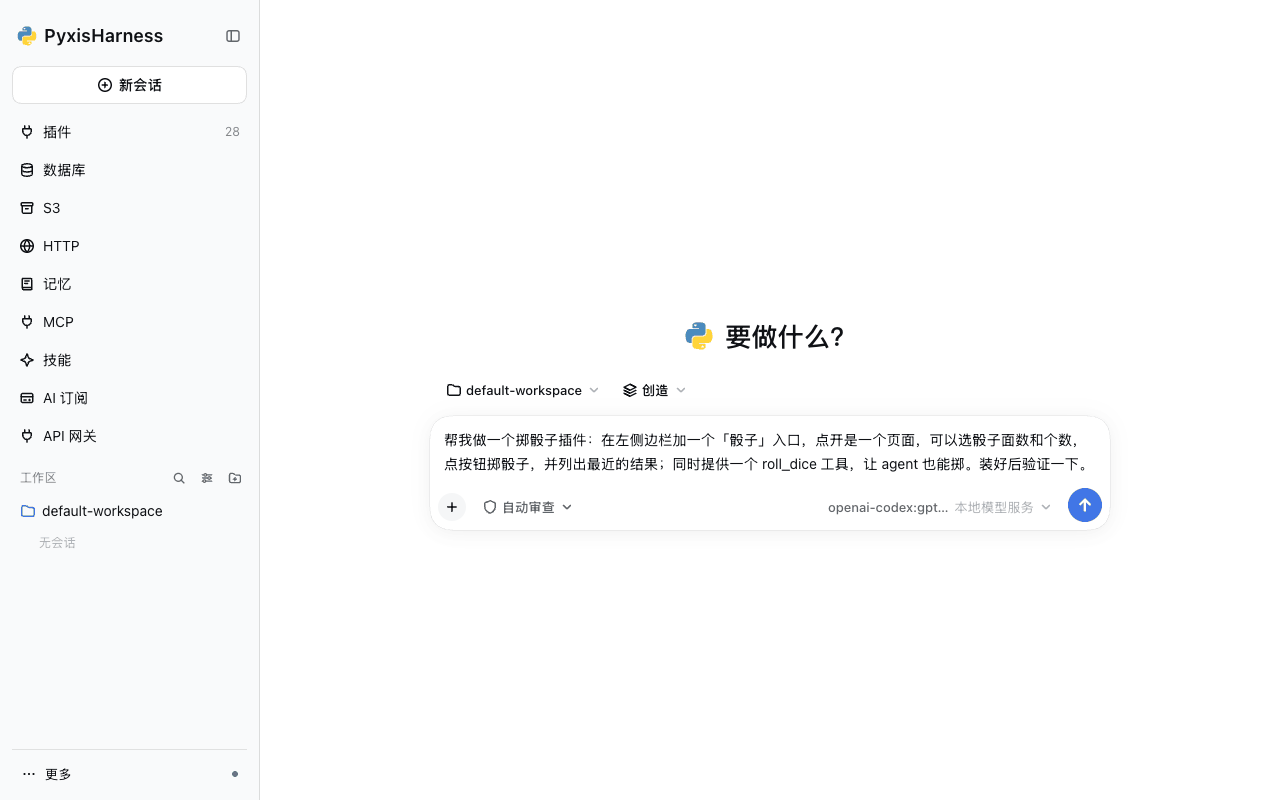
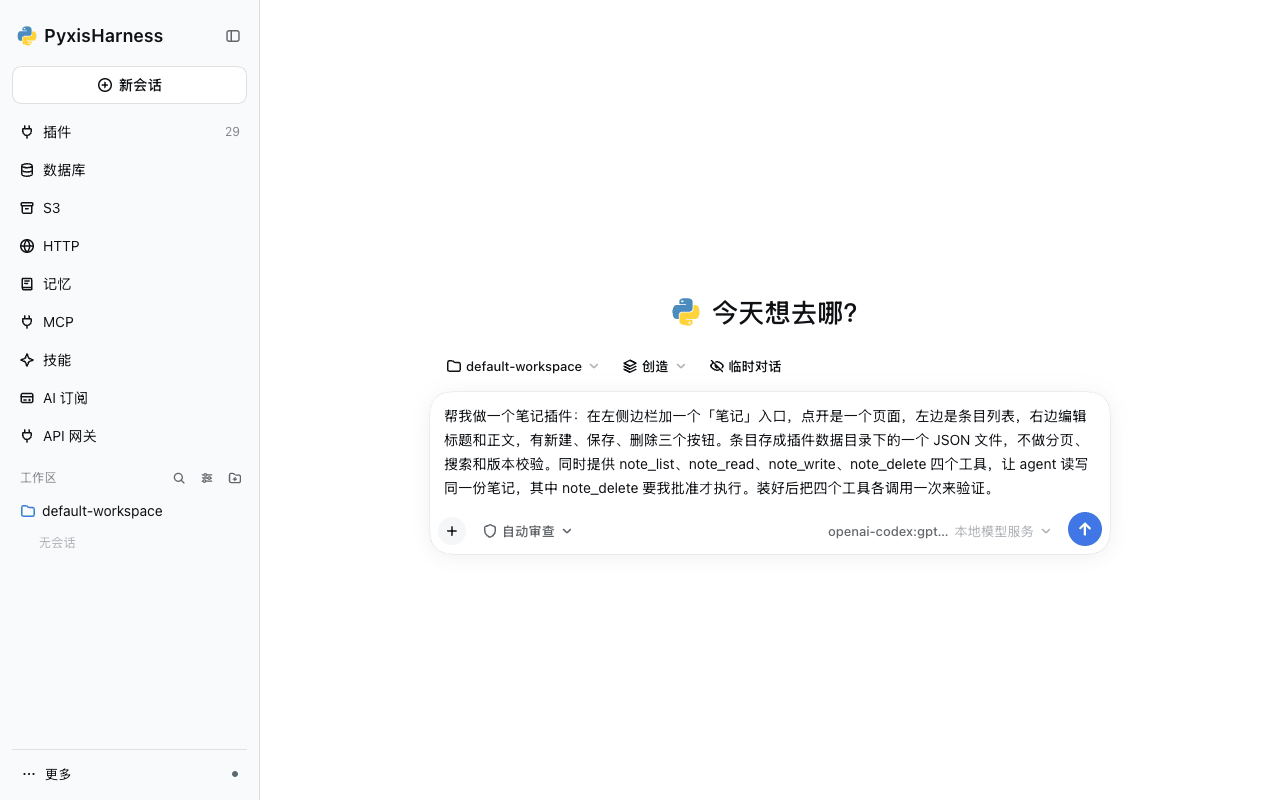
Walk the quick start with a notes plugin
The example plugin is a notes page in the left sidebar with four note_*
tools: the user and the agent edit the same entries, and note_delete asks
for approval. The request states the storage, the scope and the checks.
Eleven screenshots retaken on the current interface.

Changed region(s): [[0.3438, 0.4375, 0.875, 0.6875], [0.5, 0.375, 0.6875, 0.4688]]

diff --git a/manual/quick-start.md b/manual/quick-start.md
@@ -2,8 +2,8 @@
 
 | 项 | 内容 |
 |---|---|
-| 结果 | PyxisHarness 运行起来；agent 写出并安装一个插件：左侧边栏的「骰子」页面，加一个 `roll_dice` 工具 |
-| 用时 | 约 10 分钟 |
+| 结果 | PyxisHarness 运行起来；agent 写出并安装一个插件：左侧边栏的「笔记」页面，加四个 `note_*` 工具；你和 agent 读写同一份笔记 |
+| 用时 | 约 15 分钟 |
 | 前置 | Python 3.12 及以上、一个模型 API（OpenAI、Anthropic、DeepSeek、Gemini、OpenRouter，或 OpenAI / Anthropic 兼容端点） |
 | 平台 | macOS、Linux、Windows |
 
@@ -16,7 +16,7 @@
 | [5. 审查与安装](#5-审查与安装) | 会话 |
 | [6. 重启与验证](#6-重启与验证) | 会话 |
 | [7. 查看与管理](#7-查看与管理) | 插件页 |
-| [8. 使用](#8-使用) | 侧边栏 |
+| [8. 使用](#8-使用) | 侧边栏、会话 |
 
 ## 1. 安装与启动
 
@@ -84,25 +84,37 @@ shell 在 macOS 与 Linux 上是 bash，在 Windows 上是 PowerShell。
 
 ## 4. 描述插件
 
-写清三件事：界面放在哪、能做什么、怎么验证。
-
 ```text
-帮我做一个掷骰子插件：在左侧边栏加一个「骰子」入口，点开是一个页面，可以选骰子面数和个数，
-点按钮掷骰子，并列出最近的结果；同时提供一个 roll_dice 工具，让 agent 也能掷。装好后验证一下。
+帮我做一个笔记插件：在左侧边栏加一个「笔记」入口，点开是一个页面，左边是条目列表，右边编辑标题和正文，
+有新建、保存、删除三个按钮。条目存成插件数据目录下的一个 JSON 文件，不做分页、搜索和版本校验。
+同时提供 note_list、note_read、note_write、note_delete 四个工具，让 agent 读写同一份笔记，
+其中 note_delete 要我批准才执行。装好后把四个工具各调用一次来验证。
 ```
 
 ![输入需求](images/05-request.png)
+
+| 写明的事 | 示例里的句子 |
+|---|---|
+| 界面 | 左侧边栏的「笔记」入口；左边列表，右边编辑，三个按钮 |
+| 数据 | 插件数据目录下的一个 JSON 文件 |
+| 范围 | 不做分页、搜索和版本校验 |
+| 工具 | 四个 `note_*` 工具；`note_delete` 经你批准 |
+| 验证 | 四个工具各调用一次 |
+
+范围写得越具体，agent 做得越快。
 
 ## 5. 审查与安装
 
 | agent 的步骤 | 处理 |
 |---|---|
-| 读插件编写技能，取带界面的模板 | 直接执行 |
-| 把插件写到 `/plugins/dice/` | 直接执行 |
+| 读插件编写技能，查 harness 的接口 | 直接执行 |
+| 把插件写到 `/plugins/notes/` | 直接执行 |
 | 用 shell 检查模块能否导入 | 审查 |
 | 安装插件 | 审查 |
 
-审查放行的操作在工具行上带「自动放行」标记，展开可见风险等级。安装放行后，PyxisHarness 把插件装进当前 profile，在独立进程里预检，通过后保存，本轮结束后重启：
+这一步约 4–9 分钟，随模型而变。
+
+审查放行的操作在工具行上带「自动放行」标记，展开可见风险等级。安装放行后，PyxisHarness 把插件装进当前 profile，在独立进程里预检，通过后保存，本轮结束后重启；预检未通过时 agent 修改后再装：
 
 ![自动放行的安装](images/06-review.png)
 
@@ -114,34 +126,58 @@ shell 在 macOS 与 Linux 上是 bash，在 Windows 上是 PowerShell。
 
 审查按风险分级：工作区内的日常操作直接放行；安装代码、改动工作区之外的文件这类操作，你的指令里要求过才放行。安装的代码在 harness 进程内运行，权限与 harness 相同。
 
+agent 提出与任务无关的操作（例如读取工作区之外的文件）时，审查不放行：拒绝，agent 换一种做法继续。
+
 ## 6. 重启与验证
 
-重启由 PyxisHarness 自己完成。对话里出现「第 2 代已启动」的分隔行，会话在新一代进程里继续，agent 调用新工具、请求页面的接口来验证，最后给出结果：
+重启由 PyxisHarness 自己完成。对话里出现「第 2 代已启动」的分隔行，会话在新一代进程里继续，agent 依次调用四个工具来验证。
 
-![验证结果](images/07-verified.png)
+`note_delete` 弹出审批卡片：这是需求里要求的，审查不替你放行。
+
+![删除前的审批](images/07-approval.png)
+
+批准后，agent 删除它创建的临时笔记，给出结果：
+
+![验证结果](images/08-verified.png)
 
 验证中的 shell 命令同样经过审查。
 
 ## 7. 查看与管理
 
-刷新页面。侧边栏「插件」里多了 `dice`：
+刷新页面。侧边栏「插件」里多了 `notes`：
 
-![插件页](images/08-plugins.png)
+![插件页](images/09-plugins.png)
 
 | 操作 | 位置 | 生效 |
 |---|---|---|
-| 停用、启用 | `dice` 行的开关 | 预检后重启 |
-| 卸载 | `dice` 行的删除按钮 | 预检后重启；源码保留在 `~/Documents/pyharness/web/plugins/dice/` |
+| 停用、启用 | `notes` 行的开关 | 预检后重启 |
+| 卸载 | `notes` 行的删除按钮 | 预检后重启；源码保留在 `~/Documents/pyharness/web/plugins/notes/` |
 
 ## 8. 使用
 
-侧边栏的「骰子」：
+| 步骤 | 入口 | 结果 |
+|---|---|---|
+| 记一条 | 侧边栏「笔记」：「新建」，填标题与正文，「保存」 | 条目出现在左边的列表 |
+| 让 agent 改 | 任意会话里提出，包括「标准」预设 | agent 调用 `note_list`、`note_read`、`note_write` |
+| 回到页面 | 侧边栏「笔记」，点开这一条 | 正文里有 agent 加的内容 |
 
-![骰子页面](images/09-use.png)
+让 agent 改：
 
-| 用法 | 入口 |
+```text
+读一下我的笔记「发版检查清单」，在末尾加一条：3. 上传并打标签
+```
+
+![agent 修改笔记](images/10-agent.png)
+
+回到页面：
+
+![笔记页面](images/11-use.png)
+
+页面与工具读写同一个文件。让 agent 删除条目时，`note_delete` 弹出审批卡片。
+
+页面由 agent 编写，布局与文案每次略有不同。
+
+| 侧边栏入口 | 内容 |
 |---|---|
-| 自己掷 | 页面：填面数与个数，「掷骰子」 |
-| 让 agent 掷 | 任意会话里提出，包括「标准」预设；agent 调用 `roll_dice` |
-
-两种用法的结果都进入页面的「最近结果」，末尾标明来源：页面或 Agent。
+| 记忆 | 内置：agent 积累的履历与项目经验 |
+| 笔记 | 本文的插件：你自己记的条目 |
